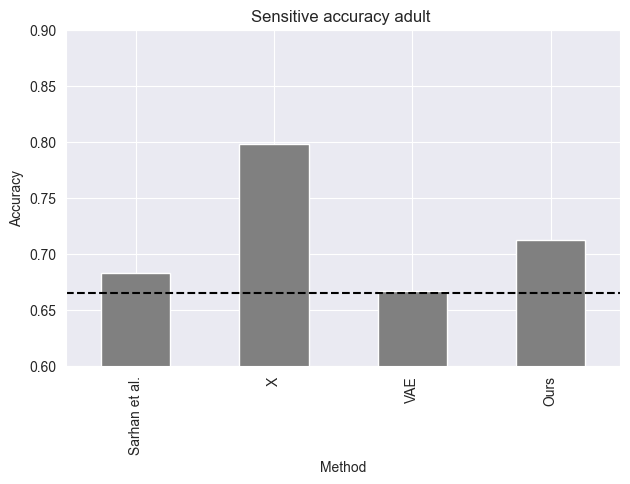
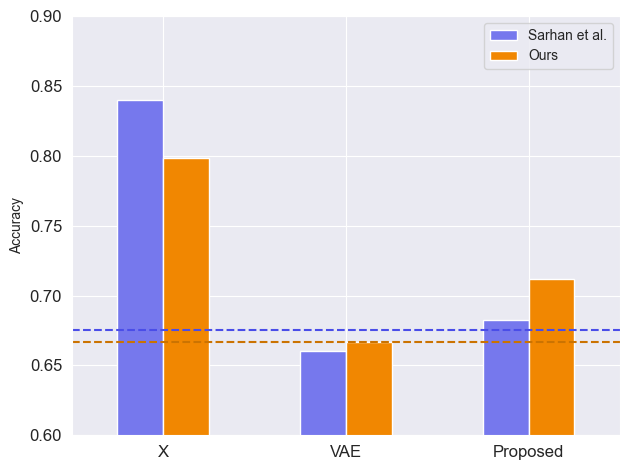
update result figures

diff --git a/scripts/make_fig2.py b/scripts/make_fig2.py
@@ -35,78 +35,119 @@ from dataloaders import (
 )
 from defaults import DATASET2DEFAULTS
 from train import parse_args
+from collections import Counter
 
 
-dataset2experiment2metrics = {
+def get_majority_accs(dataset):
+    test_ds = dataset_registrar[dataset](True)
+    get_label = lambda label: (
+        label.argmax(0) if len(label.size()) > 0 else label
+    ).item()
+    Y = [get_label(y) for x, y, s in test_ds]
+    S = [get_label(s) for x, y, s in test_ds]
+    get_majority = lambda labels: Counter(labels).most_common(1)[0][1] / len(
+        labels
+    )
+    return get_majority(Y), get_majority(S)
+
+
+dataset2orig_experiment2metrics = {
     "yaleb": {
-        "Sarhan et al.": (0.92, 0.52),
-        "majority": (1 / 38, 0.355lo),
+        "majority": (1 / 38 + 0.03, 0.51),
+        "LR": (0.79, 0.96),
+        "Proposed": (0.92, 0.52),
     },
     "adult": {
-        "majority": (0.75, 0.665),
-        "Sarhan et al.": (0.86, 0.6826),
+        "majority": (0.75, 0.675),
+        "X": (0.85, 0.84),
+        "VAE": (0.82, 0.66),
+        "Proposed": (0.86, 0.6826),
     },
     "german": {
-        "majority": (0.71, 0.69),
-        "Sarhan et al.": (0.77, 0.71),
+        "majority": (0.715, 0.69),
+        "X": (0.87, 0.80),
+        "VAE": (0.725, 0.795),
+        "Proposed": (0.77, 0.71),
     },
 }
 
 
-def make_figure(df, dataset):
-    experiment2metrics = dataset2experiment2metrics[dataset]
+def make_figure(df, dataset, is_target):
+    # "Ours" should be renamed "Proposed"
+    df = df.rename(index={"Ours": "Proposed"})
 
-    for experiment, metrics in experiment2metrics.items():
-        if experiment == "majority":
-            continue
-        if not experiment in df.index:
-            df.loc[experiment] = {
-                "target_acc": metrics[0],
-                "sens_acc": metrics[1],
-            }
+    # We use df bar plot functionality, so prepare correct format
+    df_for_plot = pd.DataFrame(index=df.index)
 
-    df = df.reindex(index=df.index[::-1])
+    metric_name = "target" if is_target else "sens"
+    metric_index = 0 if is_target else 1
 
+    # Set original results
+    orig_experiment2metrics = dataset2orig_experiment2metrics[dataset]
+    df_for_plot["Sarhan et al."] = pd.Series(
+        {
+            experiment: metrics[metric_index]
+            for experiment, metrics in orig_experiment2metrics.items()
+            if not experiment == "majority" and experiment in df_for_plot.index
+        }
+    )
+
+    # Set our results
+    df_for_plot["Ours"] = df[f"{metric_name}_acc"]
+
+    # Sort experiments
+    df_for_plot = df_for_plot.reindex(index=df_for_plot.index[::-1])
+
+    # Get majorities
+    ours_majority = get_majority_accs(dataset)
+    orig_majority = orig_experiment2metrics["majority"]
+
+    # Plotting code
     sns.set_style("darkgrid")
+    orig_color = "#7678ED"
+    ours_color = "#F18701"
+    orig_color_dark = "#4A4DE8"
+    ours_color_dark = "#CB7301"
 
     plt.figure()
-    df["sens_acc"].plot.bar(color="gray")
+    df_for_plot.plot.bar(
+        fontsize=12,
+        color={"Ours": ours_color, "Sarhan et al.": orig_color},
+        rot=0,
+    )
     plt.axhline(
-        y=experiment2metrics["majority"][1],
-        color="black",
+        y=ours_majority[metric_index],
+        color=ours_color_dark,
         linestyle="--",
     )
-    if dataset == "yaleb":
-        plt.ylim(0, 1)
-    else:
-        plt.ylim(0.6, 0.9)
-    plt.xlabel("Method")
-    plt.ylabel("Accuracy")
-    plt.tight_layout()
-    plt.title(f"Sensitive accuracy {dataset} ")
-    plt.savefig(FIGURES_DIR / f"{dataset}_sens.png", bbox_inches="tight")
-    plt.clf()
+    plt.axhline(
+        y=orig_majority[metric_index],
+        color=orig_color_dark,
+        linestyle="--",
+    )
+
     if dataset == "yaleb":
         plt.ylim(0, 1)
     else:
         plt.ylim(0.6, 0.9)
 
-    df["target_acc"].plot.bar(color="gray")
-    plt.axhline(
-        y=experiment2metrics["majority"][0],
-        color="black",
-        linestyle="--",
-    )
-    plt.title(f"Target accuracy {dataset}")
-    plt.xlabel("Method")
     plt.ylabel("Accuracy")
     plt.tight_layout()
-    plt.savefig(FIGURES_DIR / f"{dataset}_target.png", bbox_inches="tight")
+
+    # Save the figure
+    plt.savefig(
+        FIGURES_DIR / f"{dataset}_{metric_name}.png", bbox_inches="tight"
+    )
+
+
+def make_figures(df, dataset):
+    make_figure(df, dataset, is_target=True)
+    make_figure(df, dataset, is_target=False)
 
 
 def load_and_plot(dataset):
     df = pd.read_pickle(RESULTS_DIR / f"{dataset}_results")
-    make_figure(df, dataset)
+    make_figures(df, dataset)
 
 
 if __name__ == "__main__":
@@ -157,6 +198,6 @@ if __name__ == "__main__":
         df.loc["LR"] = {"target_acc": np.mean(tacc), "sens_acc": np.mean(sacc)}
     print(df)
 
-    make_figure(df, args.dataset)
+    make_figures(df, args.dataset)
 
     df.to_pickle(RESULTS_DIR / f"{args.dataset}_results")
